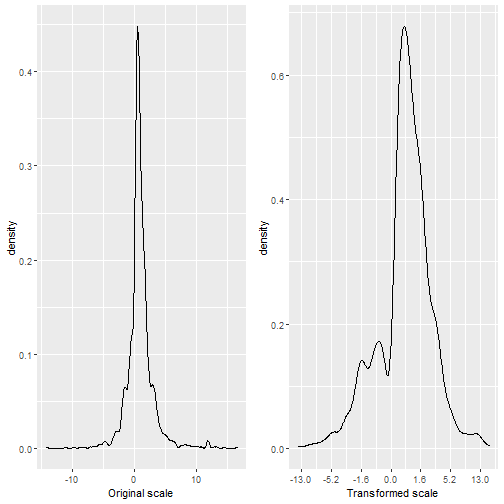
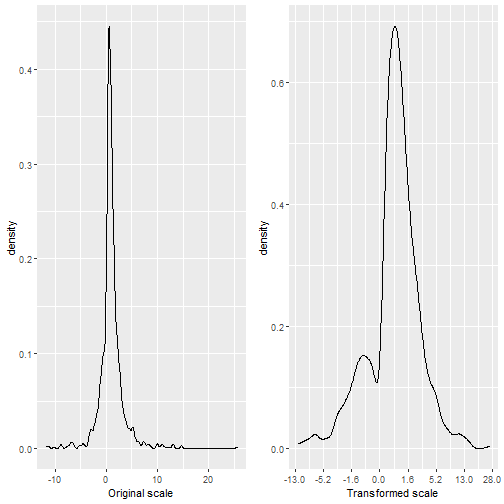
built version of readme

diff --git a/README.md b/README.md
@@ -23,6 +23,7 @@ Like a Box-Cox transformation, but it works with negative numbers too:
 ```r
 library(ggplot2)
 library(frs)
+set.seed(123)
 eg_data <- data.frame(x = exp(rnorm(1000)) * 
                sample(c(-1, 1), 1000, replace = TRUE, prob = c(0.2, 0.8)))
 
